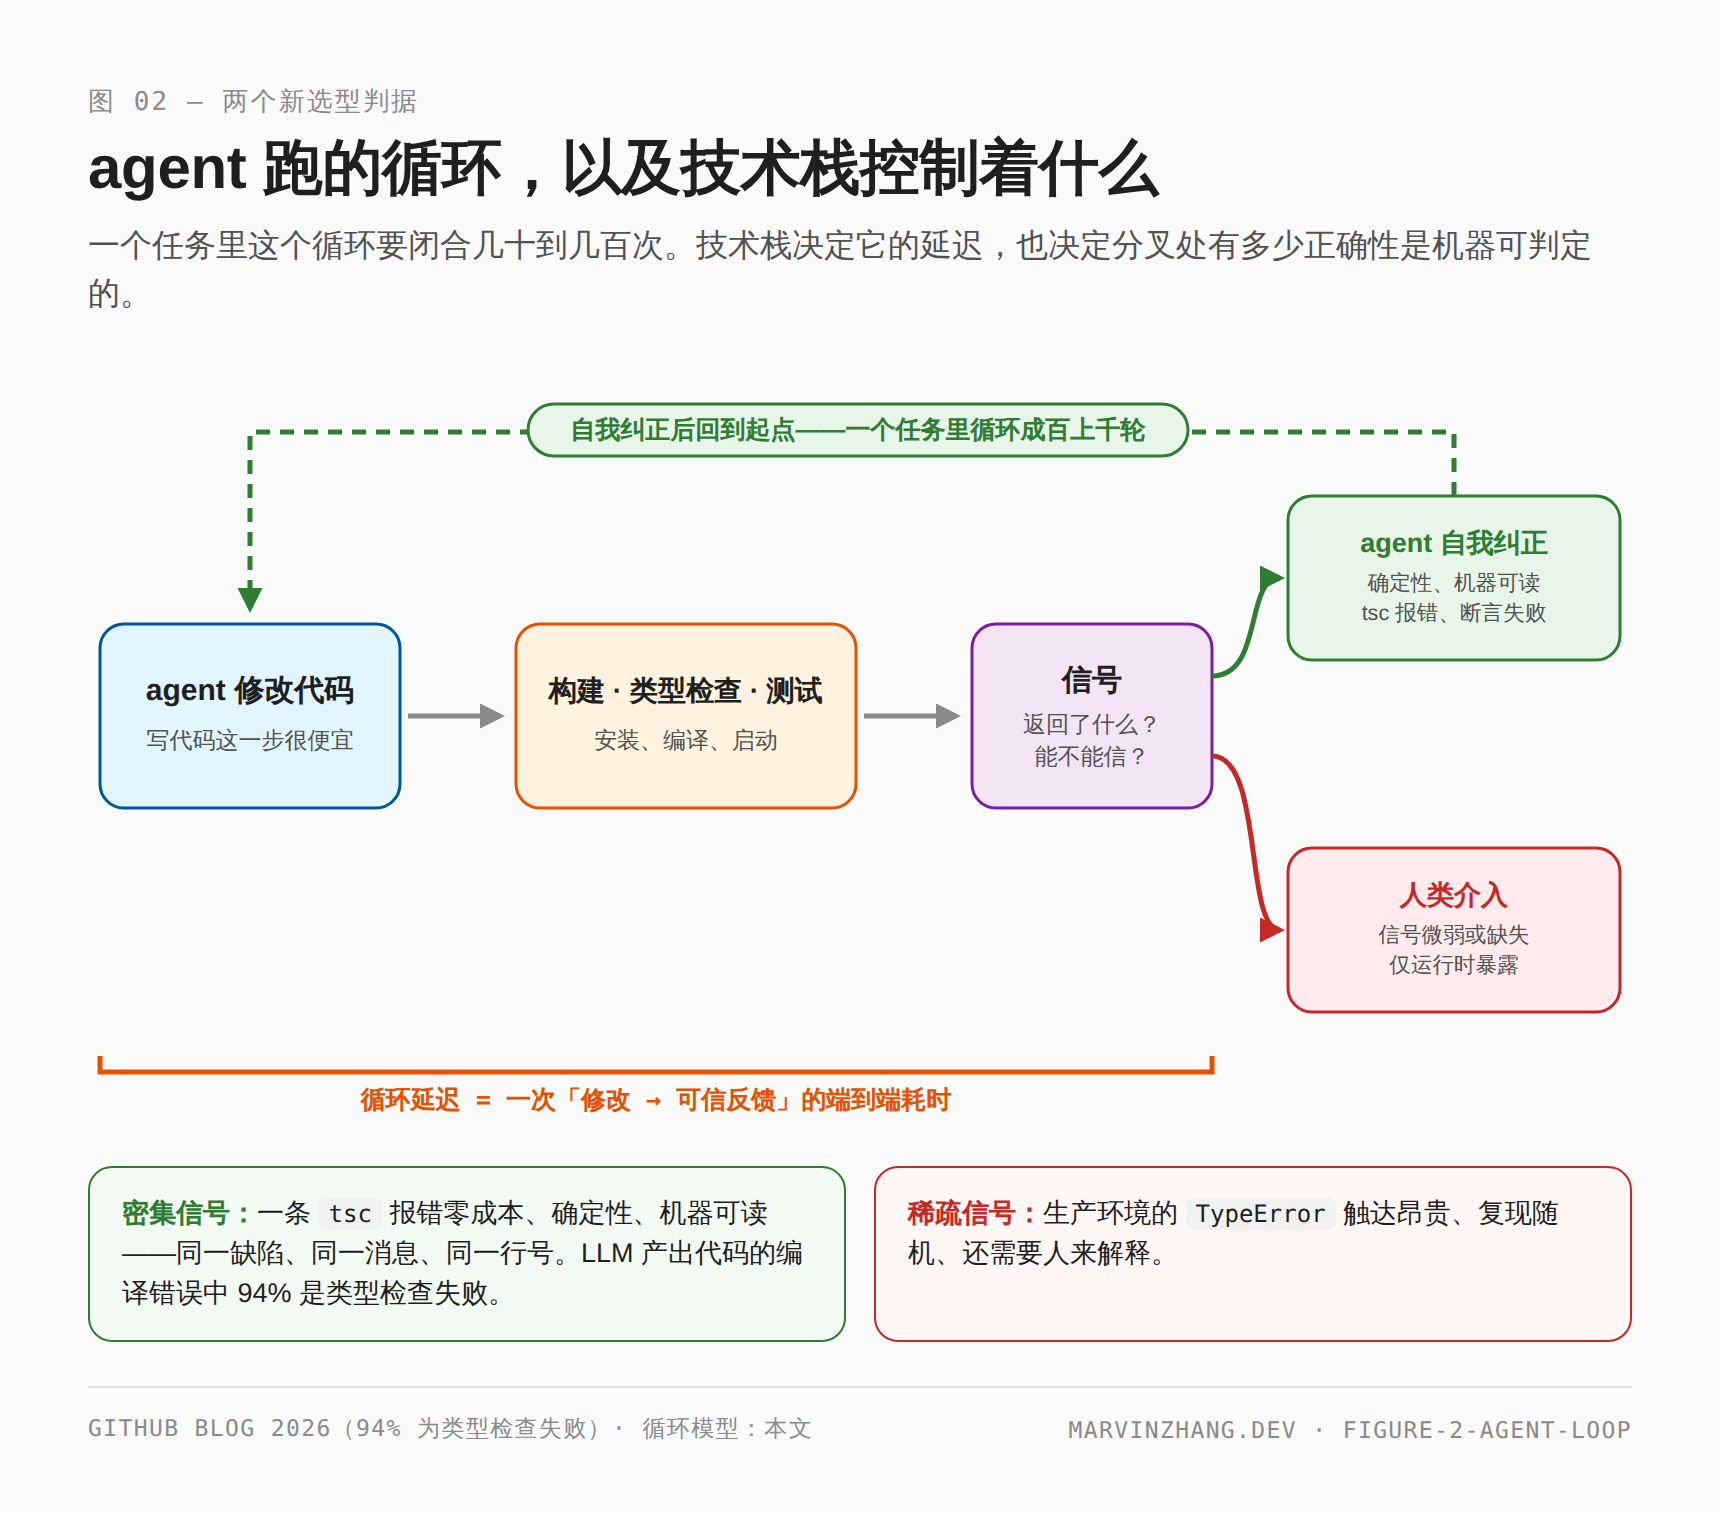
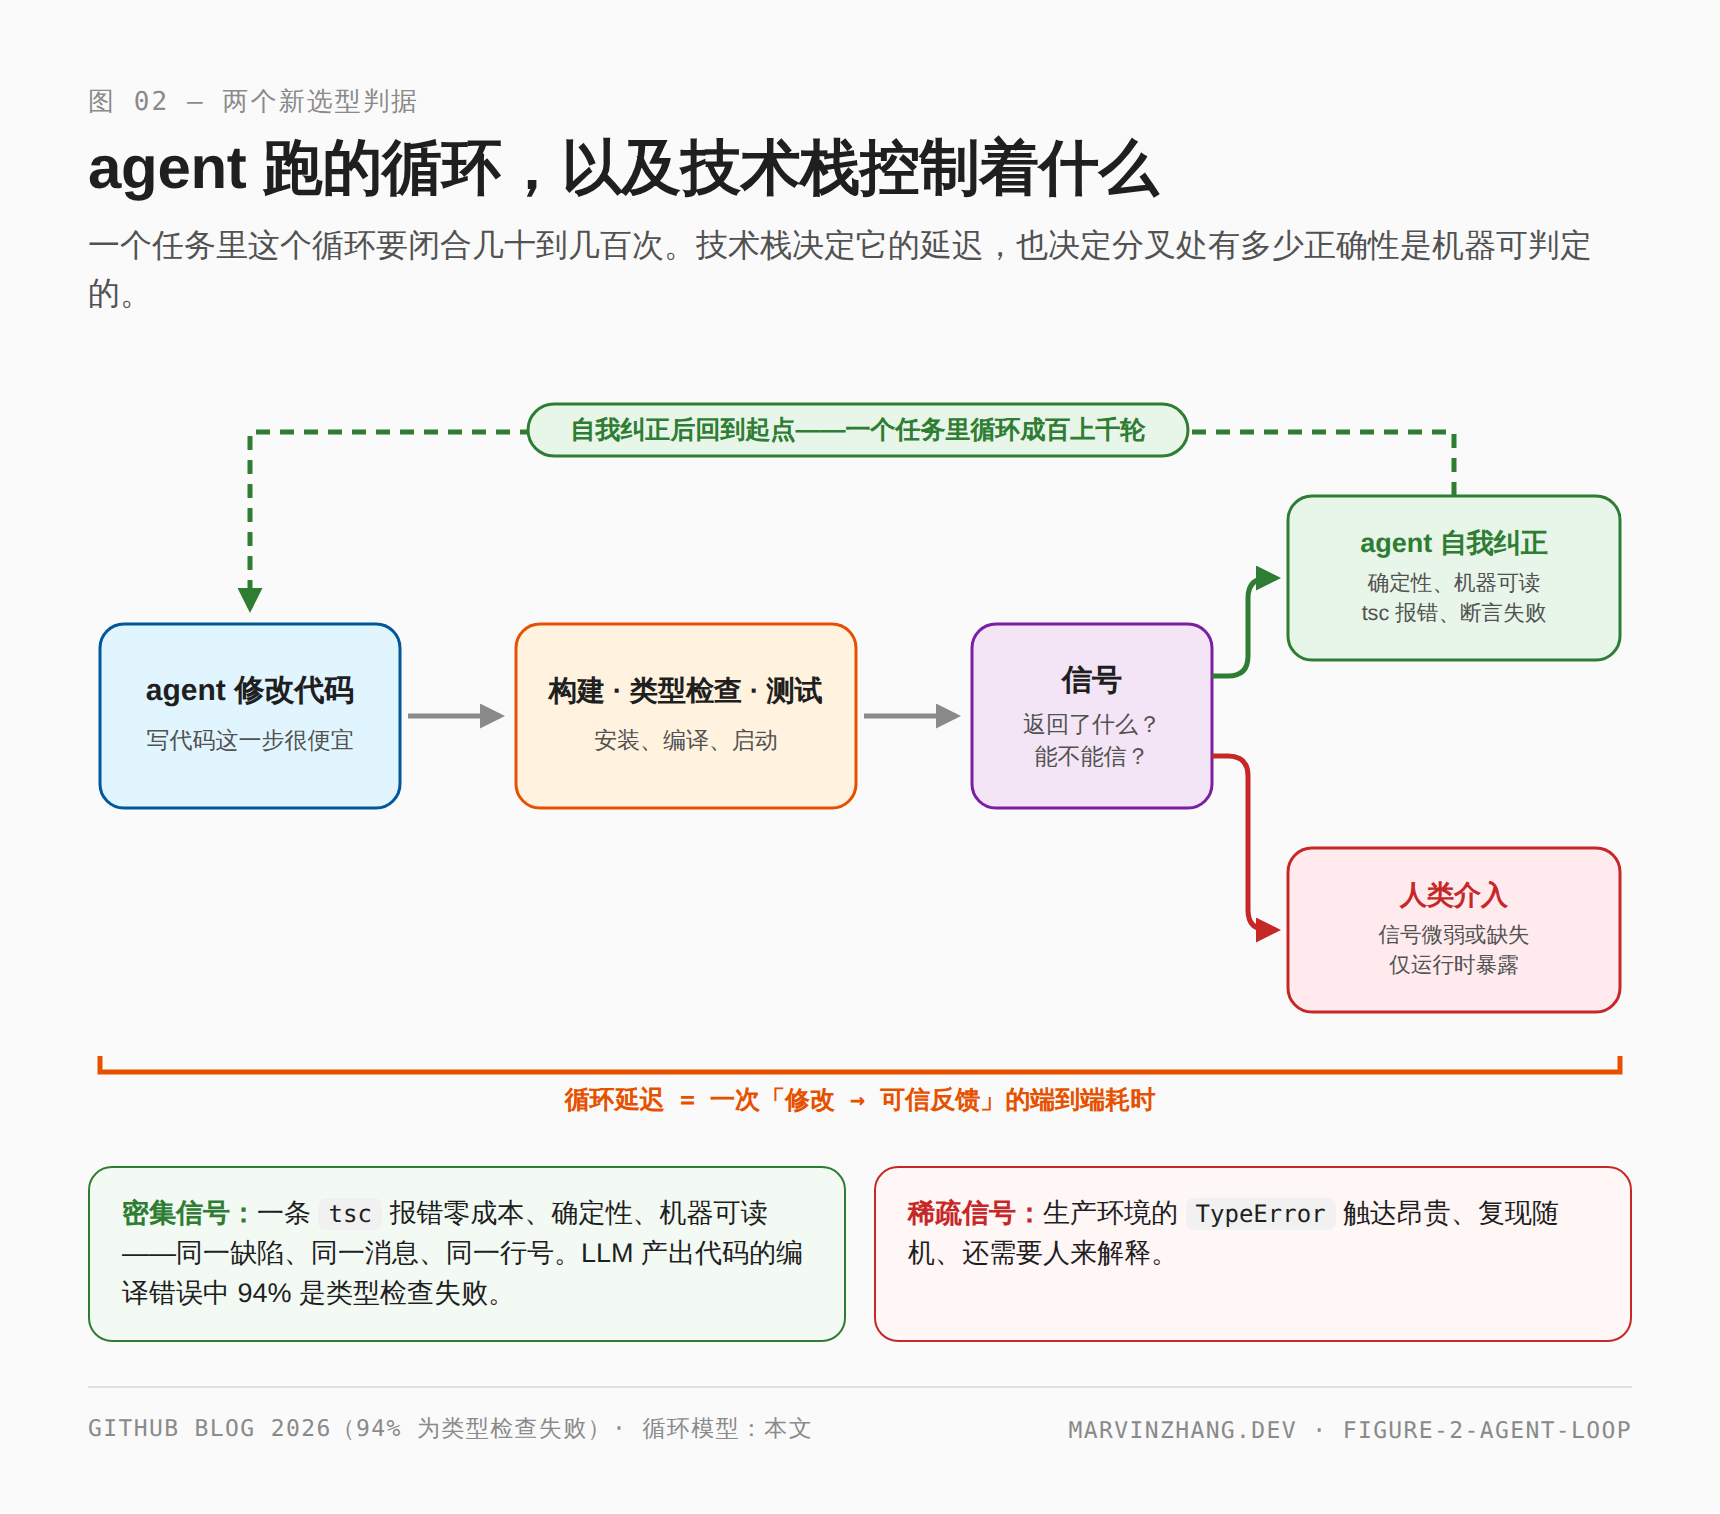
Figure 2 polish: orthogonal branch routing, full-span latency bracket
- Replace the tight bezier branches from the signals node with rounded right-angle routing so arrowheads enter both outcome boxes horizontally
- Extend the loop-latency bracket to enclose the entire loop including the outcome boxes

Claude-Session: https://claude.ai/code/session_015AgqLUuUsNDKkaPpExJqon

diff --git a/drafts/2026-07-06-web-stack-selection-in-the-agent-era/figures/figure-2-agent-loop.en.html b/drafts/2026-07-06-web-stack-selection-in-the-agent-era/figures/figure-2-agent-loop.en.html
@@ -101,8 +101,8 @@
   <text x="502" y="190" text-anchor="middle" font-size="11.5" fill="#525252">can it be trusted?</text>
 
   <!-- branch arrows: signals -> two outcomes -->
-  <path d="M 562 146 C 588 146 578 97 596 97" fill="none" stroke="#2e7d32" stroke-width="2.5" marker-end="url(#agreen)"/>
-  <path d="M 562 186 C 588 186 578 273 596 273" fill="none" stroke="#c62828" stroke-width="2.5" marker-end="url(#ared)"/>
+  <path d="M 562 146 L 570 146 Q 580 146 580 136 L 580 107 Q 580 97 590 97 L 594 97" fill="none" stroke="#2e7d32" stroke-width="2.5" marker-end="url(#agreen)"/>
+  <path d="M 562 186 L 570 186 Q 580 186 580 196 L 580 263 Q 580 273 590 273 L 594 273" fill="none" stroke="#c62828" stroke-width="2.5" marker-end="url(#ared)"/>
 
   <!-- outcomes -->
   <rect x="600" y="56" width="166" height="82" rx="12" fill="#e8f5e9" stroke="#2e7d32" stroke-width="1.5"/>
@@ -116,8 +116,8 @@
   <text x="683" y="294" text-anchor="middle" font-size="10" fill="#525252">runtime-only failure</text>
 
   <!-- latency bracket under the edit->signals span -->
-  <path d="M 6 336 L 6 344 L 562 344 L 562 336" fill="none" stroke="#e65100" stroke-width="2.5"/>
-  <text x="284" y="362" text-anchor="middle" font-size="12.5" font-weight="600" fill="#e65100"
+  <path d="M 6 336 L 6 344 L 766 344 L 766 336" fill="none" stroke="#e65100" stroke-width="2.5"/>
+  <text x="386" y="362" text-anchor="middle" font-size="12.5" font-weight="600" fill="#e65100"
         font-family="'JetBrains Mono', monospace">LOOP LATENCY = one edit → trusted-feedback cycle</text>
 </svg>
       <div class="density">

diff --git a/drafts/2026-07-06-web-stack-selection-in-the-agent-era/figures/figure-2-agent-loop.zh.html b/drafts/2026-07-06-web-stack-selection-in-the-agent-era/figures/figure-2-agent-loop.zh.html
@@ -101,8 +101,8 @@
   <text x="502" y="190" text-anchor="middle" font-size="11.5" fill="#525252">能不能信？</text>
 
   <!-- branch arrows: signals -> two outcomes -->
-  <path d="M 562 146 C 588 146 578 97 596 97" fill="none" stroke="#2e7d32" stroke-width="2.5" marker-end="url(#agreen)"/>
-  <path d="M 562 186 C 588 186 578 273 596 273" fill="none" stroke="#c62828" stroke-width="2.5" marker-end="url(#ared)"/>
+  <path d="M 562 146 L 570 146 Q 580 146 580 136 L 580 107 Q 580 97 590 97 L 594 97" fill="none" stroke="#2e7d32" stroke-width="2.5" marker-end="url(#agreen)"/>
+  <path d="M 562 186 L 570 186 Q 580 186 580 196 L 580 263 Q 580 273 590 273 L 594 273" fill="none" stroke="#c62828" stroke-width="2.5" marker-end="url(#ared)"/>
 
   <!-- outcomes -->
   <rect x="600" y="56" width="166" height="82" rx="12" fill="#e8f5e9" stroke="#2e7d32" stroke-width="1.5"/>
@@ -116,8 +116,8 @@
   <text x="683" y="294" text-anchor="middle" font-size="10.8" fill="#525252">仅运行时暴露</text>
 
   <!-- latency bracket under the edit->signals span -->
-  <path d="M 6 336 L 6 344 L 562 344 L 562 336" fill="none" stroke="#e65100" stroke-width="2.5"/>
-  <text x="284" y="362" text-anchor="middle" font-size="12.5" font-weight="600" fill="#e65100"
+  <path d="M 6 336 L 6 344 L 766 344 L 766 336" fill="none" stroke="#e65100" stroke-width="2.5"/>
+  <text x="386" y="362" text-anchor="middle" font-size="12.5" font-weight="600" fill="#e65100"
         font-family="'JetBrains Mono', monospace">循环延迟 = 一次「修改 → 可信反馈」的端到端耗时</text>
 </svg>
       <div class="density">

diff --git a/drafts/2026-07-06-web-stack-selection-in-the-agent-era/figures/build_figures.py b/drafts/2026-07-06-web-stack-selection-in-the-agent-era/figures/build_figures.py
@@ -222,8 +222,8 @@ def f2_svg(d):
   <text x="502" y="190" text-anchor="middle" font-size="11.5" fill="#525252">{T['sig_s2']}</text>
 
   <!-- branch arrows: signals -> two outcomes -->
-  <path d="M 562 146 C 588 146 578 97 596 97" fill="none" stroke="#2e7d32" stroke-width="2.5" marker-end="url(#agreen)"/>
-  <path d="M 562 186 C 588 186 578 273 596 273" fill="none" stroke="#c62828" stroke-width="2.5" marker-end="url(#ared)"/>
+  <path d="M 562 146 L 570 146 Q 580 146 580 136 L 580 107 Q 580 97 590 97 L 594 97" fill="none" stroke="#2e7d32" stroke-width="2.5" marker-end="url(#agreen)"/>
+  <path d="M 562 186 L 570 186 Q 580 186 580 196 L 580 263 Q 580 273 590 273 L 594 273" fill="none" stroke="#c62828" stroke-width="2.5" marker-end="url(#ared)"/>
 
   <!-- outcomes -->
   <rect x="600" y="56" width="166" height="82" rx="12" fill="#e8f5e9" stroke="#2e7d32" stroke-width="1.5"/>
@@ -237,8 +237,8 @@ def f2_svg(d):
   <text x="683" y="294" text-anchor="middle" font-size="{T['subfs']}" fill="#525252">{T['err_s2']}</text>
 
   <!-- latency bracket under the edit->signals span -->
-  <path d="M 6 336 L 6 344 L 562 344 L 562 336" fill="none" stroke="#e65100" stroke-width="2.5"/>
-  <text x="284" y="362" text-anchor="middle" font-size="12.5" font-weight="600" fill="#e65100"
+  <path d="M 6 336 L 6 344 L 766 344 L 766 336" fill="none" stroke="#e65100" stroke-width="2.5"/>
+  <text x="386" y="362" text-anchor="middle" font-size="12.5" font-weight="600" fill="#e65100"
         font-family="'JetBrains Mono', monospace">{T['lat']}</text>
 </svg>"""
 